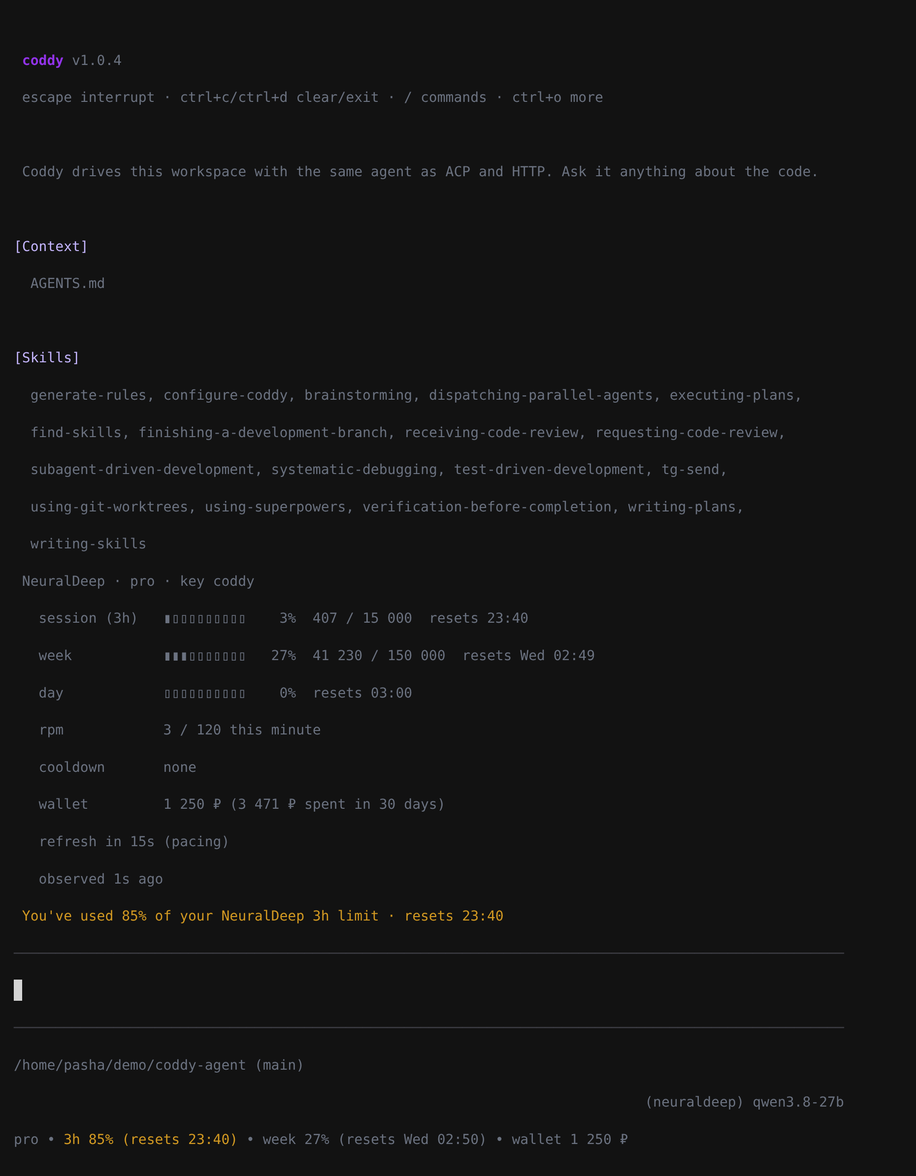
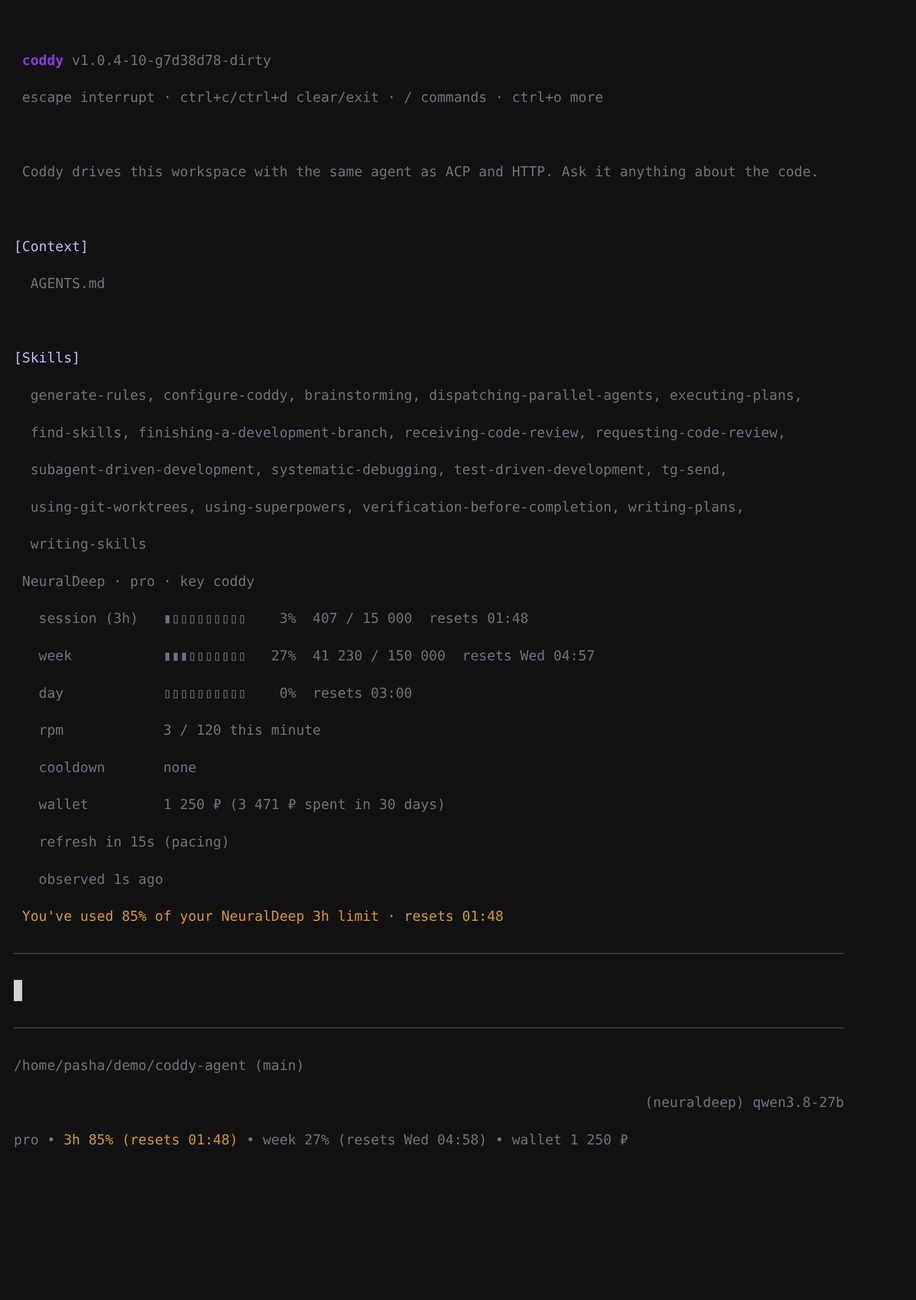
docs(usage): captures of the waiting turn, the resuming frame example, the cancel cause
The console capture script gains the fourth state (the status row while a
turn waits for the limit to lift) and the three earlier states are
re-captured from the same build; the ACP guide shows the resuming frame;
a wait cut by anything but the user names what cut it next to the limit.

diff --git a/docs/assets/cli-tui/11-usage-blocked.html b/docs/assets/cli-tui/11-usage-blocked.html
@@ -1,35 +1,35 @@
-<!DOCTYPE html><html><head><meta charset="utf-8"><style>body { margin:0; background:#121212; }pre { margin:0; padding:14px; font-family:'JetBrains Mono','DejaVu Sans Mono',monospace; font-size:14px; line-height:1.35; white-space:pre; }pre div { height:1.35em; } pre span { padding:0.18em 0; }</style></head><body><pre><div><span style="color:#c4b5fd;background:#121212;">[Context]</span><span style="color:#d4d4d4;background:#121212;">                                                                                           </span></div>
-<div><span style="color:#d4d4d4;background:#121212;">  </span><span style="color:#6b7280;background:#121212;">AGENTS.md</span><span style="color:#d4d4d4;background:#121212;">                                                                                         </span></div>
-<div><span style="color:#d4d4d4;background:#121212;">                                                                                                    </span></div>
-<div><span style="color:#c4b5fd;background:#121212;">[Skills]</span><span style="color:#d4d4d4;background:#121212;">                                                                                            </span></div>
-<div><span style="color:#d4d4d4;background:#121212;">  </span><span style="color:#6b7280;background:#121212;">generate-rules, configure-coddy, brainstorming, dispatching-parallel-agents, executing-plans,     </span></div>
-<div><span style="color:#d4d4d4;background:#121212;">  </span><span style="color:#6b7280;background:#121212;">find-skills, finishing-a-development-branch, receiving-code-review, requesting-code-review,       </span></div>
-<div><span style="color:#d4d4d4;background:#121212;">  </span><span style="color:#6b7280;background:#121212;">subagent-driven-development, systematic-debugging, test-driven-development, tg-send,              </span></div>
-<div><span style="color:#d4d4d4;background:#121212;">  </span><span style="color:#6b7280;background:#121212;">using-git-worktrees, using-superpowers, verification-before-completion, writing-plans,            </span></div>
+<!DOCTYPE html><html><head><meta charset="utf-8"><style>body { margin:0; background:#121212; }pre { margin:0; padding:14px; font-family:'JetBrains Mono','DejaVu Sans Mono',monospace; font-size:14px; line-height:1.35; white-space:pre; }pre div { height:1.35em; } pre span { padding:0.18em 0; }</style></head><body><pre><div><span style="color:#d4d4d4;background:#121212;">  </span><span style="color:#6b7280;background:#121212;">using-git-worktrees, using-superpowers, verification-before-completion, writing-plans,            </span></div>
 <div><span style="color:#d4d4d4;background:#121212;">  </span><span style="color:#6b7280;background:#121212;">writing-skills</span><span style="color:#d4d4d4;background:#121212;">                                                                                    </span></div>
 <div><span style="color:#d4d4d4;background:#121212;"> </span><span style="color:#6b7280;background:#121212;">NeuralDeep · pro · key coddy                                                                       </span></div>
-<div><span style="color:#d4d4d4;background:#121212;"> </span><span style="color:#6b7280;background:#121212;">  session (3h)   ▮▯▯▯▯▯▯▯▯▯    3%  407 / 15 000  resets 23:40                                      </span></div>
-<div><span style="color:#d4d4d4;background:#121212;"> </span><span style="color:#6b7280;background:#121212;">  week           ▮▮▮▯▯▯▯▯▯▯   27%  41 230 / 150 000  resets Wed 02:49                              </span></div>
+<div><span style="color:#d4d4d4;background:#121212;"> </span><span style="color:#6b7280;background:#121212;">  session (3h)   ▮▯▯▯▯▯▯▯▯▯    3%  407 / 15 000  resets 01:48                                      </span></div>
+<div><span style="color:#d4d4d4;background:#121212;"> </span><span style="color:#6b7280;background:#121212;">  week           ▮▮▮▯▯▯▯▯▯▯   27%  41 230 / 150 000  resets Wed 04:57                              </span></div>
 <div><span style="color:#d4d4d4;background:#121212;"> </span><span style="color:#6b7280;background:#121212;">  day            ▯▯▯▯▯▯▯▯▯▯    0%  resets 03:00                                                    </span></div>
 <div><span style="color:#d4d4d4;background:#121212;"> </span><span style="color:#6b7280;background:#121212;">  rpm            3 / 120 this minute                                                               </span></div>
 <div><span style="color:#d4d4d4;background:#121212;"> </span><span style="color:#6b7280;background:#121212;">  cooldown       none                                                                              </span></div>
 <div><span style="color:#d4d4d4;background:#121212;"> </span><span style="color:#6b7280;background:#121212;">  wallet         1 250 ₽ (3 471 ₽ spent in 30 days)                                                </span></div>
 <div><span style="color:#d4d4d4;background:#121212;"> </span><span style="color:#6b7280;background:#121212;">  refresh in 15s (pacing)                                                                          </span></div>
 <div><span style="color:#d4d4d4;background:#121212;"> </span><span style="color:#6b7280;background:#121212;">  observed 1s ago</span><span style="color:#d4d4d4;background:#121212;">                                                                                  </span></div>
-<div><span style="color:#d4d4d4;background:#121212;"> </span><span style="color:#d29922;background:#121212;">You've used 85% of your NeuralDeep 3h limit · resets 23:40</span><span style="color:#d4d4d4;background:#121212;">                                         </span></div>
-<div><span style="color:#d4d4d4;background:#121212;"> </span><span style="color:#f85149;background:#121212;">Usage limit reached: limit reached (resets 23:40)</span><span style="color:#d4d4d4;background:#121212;">                                                  </span></div>
-<div><span style="color:#d4d4d4;background:#121212;"> </span><span style="color:#6b7280;background:#121212;">NeuralDeep · pro · key coddy · limit reached (resets 23:40)                                        </span></div>
-<div><span style="color:#d4d4d4;background:#121212;"> </span><span style="color:#6b7280;background:#121212;">  session (3h)   ▮▮▮▮▮▮▮▮▮▮  100%  15 000 / 15 000  resets 23:40  exhausted                        </span></div>
-<div><span style="color:#d4d4d4;background:#121212;"> </span><span style="color:#6b7280;background:#121212;">  week           ▮▮▮▯▯▯▯▯▯▯   27%  41 230 / 150 000  resets Wed 02:50                              </span></div>
+<div><span style="color:#d4d4d4;background:#121212;"> </span><span style="color:#d29922;background:#121212;">You've used 85% of your NeuralDeep 3h limit · resets 01:48</span><span style="color:#d4d4d4;background:#121212;">                                         </span></div>
+<div><span style="color:#d4d4d4;background:#121212;">                                                                                                    </span></div>
+<div><span style="color:#d4d4d4;background:#2d2d2d;">                                                                                                    </span></div>
+<div><span style="color:#d4d4d4;background:#2d2d2d;"> </span><span style="color:#f4f4f5;background:#2d2d2d;">hi</span><span style="color:#d4d4d4;background:#2d2d2d;">                                                                                                 </span></div>
+<div><span style="color:#d4d4d4;background:#2d2d2d;">                                                                                                    </span></div>
+<div><span style="color:#d4d4d4;background:#121212;"> </span><span style="color:#d29922;background:#121212;">Interrupted by escape</span><span style="color:#d4d4d4;background:#121212;">                                                                              </span></div>
+<div><span style="color:#d4d4d4;background:#121212;"> </span><span style="color:#6b7280;background:#121212;">Operation aborted</span><span style="color:#d4d4d4;background:#121212;">                                                                                  </span></div>
+<div><span style="color:#d4d4d4;background:#121212;"> </span><span style="color:#f85149;background:#121212;">Usage limit reached (resets 01:48)</span><span style="color:#d4d4d4;background:#121212;">                                                                 </span></div>
+<div><span style="color:#d4d4d4;background:#121212;"> </span><span style="color:#6b7280;background:#121212;">NeuralDeep · pro · key coddy · limit reached (resets 01:48)                                        </span></div>
+<div><span style="color:#d4d4d4;background:#121212;"> </span><span style="color:#6b7280;background:#121212;">  session (3h)   ▮▮▮▮▮▮▮▮▮▮  100%  15 000 / 15 000  resets 01:48  exhausted                        </span></div>
+<div><span style="color:#d4d4d4;background:#121212;"> </span><span style="color:#6b7280;background:#121212;">  week           ▮▮▮▯▯▯▯▯▯▯   27%  41 230 / 150 000  resets Wed 04:58                              </span></div>
 <div><span style="color:#d4d4d4;background:#121212;"> </span><span style="color:#6b7280;background:#121212;">  day            ▯▯▯▯▯▯▯▯▯▯    0%  resets 03:00                                                    </span></div>
 <div><span style="color:#d4d4d4;background:#121212;"> </span><span style="color:#6b7280;background:#121212;">  rpm            3 / 120 this minute                                                               </span></div>
 <div><span style="color:#d4d4d4;background:#121212;"> </span><span style="color:#6b7280;background:#121212;">  cooldown       none                                                                              </span></div>
 <div><span style="color:#d4d4d4;background:#121212;"> </span><span style="color:#6b7280;background:#121212;">  wallet         1 250 ₽ (3 471 ₽ spent in 30 days)                                                </span></div>
-<div><span style="color:#d4d4d4;background:#121212;"> </span><span style="color:#6b7280;background:#121212;">  refresh in 11s (pacing)                                                                          </span></div>
-<div><span style="color:#d4d4d4;background:#121212;"> </span><span style="color:#6b7280;background:#121212;">  observed 4s ago</span><span style="color:#d4d4d4;background:#121212;">                                                                                  </span></div>
+<div><span style="color:#d4d4d4;background:#121212;"> </span><span style="color:#6b7280;background:#121212;">  refresh in 12s (pacing)                                                                          </span></div>
+<div><span style="color:#d4d4d4;background:#121212;"> </span><span style="color:#6b7280;background:#121212;">  observed 3s ago</span><span style="color:#d4d4d4;background:#121212;">                                                                                  </span></div>
+<div><span style="color:#d4d4d4;background:#121212;">                                                                                                    </span></div>
 <div><span style="color:#3f3f46;background:#121212;">────────────────────────────────────────────────────────────────────────────────────────────────────</span></div>
 <div><span style="color:#121212;background:#d4d4d4;"> </span><span style="color:#d4d4d4;background:#121212;">                                                                                                   </span></div>
 <div><span style="color:#3f3f46;background:#121212;">────────────────────────────────────────────────────────────────────────────────────────────────────</span></div>
 <div><span style="color:#6b7280;background:#121212;">/home/pasha/demo/coddy-agent (main)</span><span style="color:#d4d4d4;background:#121212;">                                                                 </span></div>
-<div><span style="color:#6b7280;background:#121212;">                                                                            (neuraldeep) qwen3.8-27b</span></div>
-<div><span style="color:#6b7280;background:#121212;">pro • </span><span style="color:#f85149;background:#121212;">limit reached (resets 23:40)</span><span style="color:#6b7280;background:#121212;"> • wallet 1 250 ₽</span><span style="color:#d4d4d4;background:#121212;">                                                 </span></div></pre></body></html>
+<div><span style="color:#6b7280;background:#121212;">10.7%/262.1k (auto)                                                         (neuraldeep) qwen3.8-27b</span></div>
+<div><span style="color:#6b7280;background:#121212;">pro • </span><span style="color:#f85149;background:#121212;">limit reached (resets 01:48)</span><span style="color:#6b7280;background:#121212;"> • wallet 1 250 ₽</span><span style="color:#d4d4d4;background:#121212;">                                                 </span></div></pre></body></html>

diff --git a/docs/assets/cli-tui/12-usage-resuming.html b/docs/assets/cli-tui/12-usage-resuming.html
@@ -1,6 +1,4 @@
-<!DOCTYPE html><html><head><meta charset="utf-8"><style>body { margin:0; background:#121212; }pre { margin:0; padding:14px; font-family:'JetBrains Mono','DejaVu Sans Mono',monospace; font-size:14px; line-height:1.35; white-space:pre; }pre div { height:1.35em; } pre span { padding:0.18em 0; }</style></head><body><pre><div><span style="color:#d4d4d4;background:#121212;">                                                                                                    </span></div>
-<div><span style="color:#d4d4d4;background:#121212;"> </span><span style="color:#9333ea;background:#121212;font-weight:bold;">coddy</span><span style="color:#6b7280;background:#121212;"> v1.0.4-10-g7d38d78-dirty</span><span style="color:#d4d4d4;background:#121212;">                                                                     </span></div>
-<div><span style="color:#d4d4d4;background:#121212;"> </span><span style="color:#6b7280;background:#121212;">escape interrupt · ctrl+c/ctrl+d clear/exit · / commands · ctrl+o more</span><span style="color:#d4d4d4;background:#121212;">                             </span></div>
+<!DOCTYPE html><html><head><meta charset="utf-8"><style>body { margin:0; background:#121212; }pre { margin:0; padding:14px; font-family:'JetBrains Mono','DejaVu Sans Mono',monospace; font-size:14px; line-height:1.35; white-space:pre; }pre div { height:1.35em; } pre span { padding:0.18em 0; }</style></head><body><pre><div><span style="color:#d4d4d4;background:#121212;"> </span><span style="color:#6b7280;background:#121212;">escape interrupt · ctrl+c/ctrl+d clear/exit · / commands · ctrl+o more</span><span style="color:#d4d4d4;background:#121212;">                             </span></div>
 <div><span style="color:#d4d4d4;background:#121212;">                                                                                                    </span></div>
 <div><span style="color:#d4d4d4;background:#121212;"> </span><span style="color:#6b7280;background:#121212;">Coddy drives this workspace with the same agent as ACP and HTTP. Ask it anything about the code.</span><span style="color:#d4d4d4;background:#121212;">   </span></div>
 <div><span style="color:#d4d4d4;background:#121212;">                                                                                                    </span></div>
@@ -23,13 +21,15 @@
 <div><span style="color:#d4d4d4;background:#121212;"> </span><span style="color:#6b7280;background:#121212;">  refresh in 15s (pacing)                                                                          </span></div>
 <div><span style="color:#d4d4d4;background:#121212;"> </span><span style="color:#6b7280;background:#121212;">  observed 1s ago</span><span style="color:#d4d4d4;background:#121212;">                                                                                  </span></div>
 <div><span style="color:#d4d4d4;background:#121212;"> </span><span style="color:#d29922;background:#121212;">You've used 85% of your NeuralDeep 3h limit · resets 01:48</span><span style="color:#d4d4d4;background:#121212;">                                         </span></div>
+<div><span style="color:#d4d4d4;background:#121212;">                                                                                                    </span></div>
+<div><span style="color:#d4d4d4;background:#2d2d2d;">                                                                                                    </span></div>
+<div><span style="color:#d4d4d4;background:#2d2d2d;"> </span><span style="color:#f4f4f5;background:#2d2d2d;">hi</span><span style="color:#d4d4d4;background:#2d2d2d;">                                                                                                 </span></div>
+<div><span style="color:#d4d4d4;background:#2d2d2d;">                                                                                                    </span></div>
+<div><span style="color:#d4d4d4;background:#121212;">                                                                                                    </span></div>
+<div><span style="color:#d4d4d4;background:#121212;"> </span><span style="color:#9333ea;background:#121212;">⠙</span><span style="color:#d4d4d4;background:#121212;"> </span><span style="color:#9ca3af;background:#121212;">Usage limit reached · resuming at 00:13</span><span style="color:#d4d4d4;background:#121212;">                                                          </span></div>
 <div><span style="color:#3f3f46;background:#121212;">────────────────────────────────────────────────────────────────────────────────────────────────────</span></div>
 <div><span style="color:#121212;background:#d4d4d4;"> </span><span style="color:#d4d4d4;background:#121212;">                                                                                                   </span></div>
 <div><span style="color:#3f3f46;background:#121212;">────────────────────────────────────────────────────────────────────────────────────────────────────</span></div>
 <div><span style="color:#6b7280;background:#121212;">/home/pasha/demo/coddy-agent (main)</span><span style="color:#d4d4d4;background:#121212;">                                                                 </span></div>
-<div><span style="color:#6b7280;background:#121212;">                                                                            (neuraldeep) qwen3.8-27b</span></div>
-<div><span style="color:#6b7280;background:#121212;">pro • </span><span style="color:#d29922;background:#121212;">3h 85% (resets 01:48)</span><span style="color:#6b7280;background:#121212;"> • week 27% (resets Wed 04:58) • wallet 1 250 ₽</span><span style="color:#d4d4d4;background:#121212;">                          </span></div>
-<div><span style="color:#d4d4d4;background:#121212;">                                                                                                    </span></div>
-<div><span style="color:#d4d4d4;background:#121212;">                                                                                                    </span></div>
-<div><span style="color:#d4d4d4;background:#121212;">                                                                                                    </span></div>
-<div><span style="color:#d4d4d4;background:#121212;">                                                                                                    </span></div></pre></body></html>
+<div><span style="color:#6b7280;background:#121212;">10.7%/262.1k (auto)                                                         (neuraldeep) qwen3.8-27b</span></div>
+<div><span style="color:#6b7280;background:#121212;">pro • </span><span style="color:#d29922;background:#121212;">3h 85% (resets 01:48)</span><span style="color:#6b7280;background:#121212;"> • week 27% (resets Wed 04:58) • wallet 1 250 ₽</span><span style="color:#d4d4d4;background:#121212;">                          </span></div></pre></body></html>

diff --git a/docs/assets/cli-tui/09-usage-footer.html b/docs/assets/cli-tui/09-usage-footer.html
@@ -1,5 +1,5 @@
 <!DOCTYPE html><html><head><meta charset="utf-8"><style>body { margin:0; background:#121212; }pre { margin:0; padding:14px; font-family:'JetBrains Mono','DejaVu Sans Mono',monospace; font-size:14px; line-height:1.35; white-space:pre; }pre div { height:1.35em; } pre span { padding:0.18em 0; }</style></head><body><pre><div><span style="color:#d4d4d4;background:#121212;">                                                                                                    </span></div>
-<div><span style="color:#d4d4d4;background:#121212;"> </span><span style="color:#9333ea;background:#121212;font-weight:bold;">coddy</span><span style="color:#6b7280;background:#121212;"> v1.0.4</span><span style="color:#d4d4d4;background:#121212;">                                                                                       </span></div>
+<div><span style="color:#d4d4d4;background:#121212;"> </span><span style="color:#9333ea;background:#121212;font-weight:bold;">coddy</span><span style="color:#6b7280;background:#121212;"> v1.0.4-10-g7d38d78-dirty</span><span style="color:#d4d4d4;background:#121212;">                                                                     </span></div>
 <div><span style="color:#d4d4d4;background:#121212;"> </span><span style="color:#6b7280;background:#121212;">escape interrupt · ctrl+c/ctrl+d clear/exit · / commands · ctrl+o more</span><span style="color:#d4d4d4;background:#121212;">                             </span></div>
 <div><span style="color:#d4d4d4;background:#121212;">                                                                                                    </span></div>
 <div><span style="color:#d4d4d4;background:#121212;"> </span><span style="color:#6b7280;background:#121212;">Coddy drives this workspace with the same agent as ACP and HTTP. Ask it anything about the code.</span><span style="color:#d4d4d4;background:#121212;">   </span></div>
@@ -18,7 +18,7 @@
 <div><span style="color:#3f3f46;background:#121212;">────────────────────────────────────────────────────────────────────────────────────────────────────</span></div>
 <div><span style="color:#6b7280;background:#121212;">/home/pasha/demo/coddy-agent (main)</span><span style="color:#d4d4d4;background:#121212;">                                                                 </span></div>
 <div><span style="color:#6b7280;background:#121212;">                                                                            (neuraldeep) qwen3.8-27b</span></div>
-<div><span style="color:#6b7280;background:#121212;">pro • 3h 3% (resets 23:40) • week 27% (resets Wed 02:49) • wallet 1 250 ₽</span><span style="color:#d4d4d4;background:#121212;">                           </span></div>
+<div><span style="color:#6b7280;background:#121212;">pro • 3h 3% (resets 01:48) • week 27% (resets Wed 04:57) • wallet 1 250 ₽</span><span style="color:#d4d4d4;background:#121212;">                           </span></div>
 <div><span style="color:#d4d4d4;background:#121212;">                                                                                                    </span></div>
 <div><span style="color:#d4d4d4;background:#121212;">                                                                                                    </span></div>
 <div><span style="color:#d4d4d4;background:#121212;">                                                                                                    </span></div>

diff --git a/examples/cli/capture_usage.py b/examples/cli/capture_usage.py
@@ -1,11 +1,13 @@
 #!/usr/bin/env python3
 """Capture the console status bar with NeuralDeep account usage.
 
-Stands a local GET /limits (a fake hub with a pro wallet key), points the
+Stands a local GET /limits (a fake hub with a pro wallet key) plus a chat
+completion that answers one 429 naming a reset far ahead, points the
 neuraldeep provider at it through CODDY_NEURALDEEP_BASE_URL, starts
-build/coddy cli in a pty and dumps three states through capture.py's
+build/coddy cli in a pty and dumps four states through capture.py's
 renderer (text, styled HTML, PNG): the footer line, the 80 % warning with
-its notice and /usage, and a hit limit. No real key and no model call.
+its notice and /usage, the status row of a turn waiting for the limit to
+lift (agent.wait_for_limit_reset), and a hit limit. No real key.
 
 Usage: python3 capture_usage.py [repo] [outdir]   (default docs/assets/cli-tui)
 Needs a cli-tagged build/coddy (make build TAGS=cli), pexpect, pyte and
@@ -23,7 +25,7 @@ import pexpect, pyte  # noqa: E402
 import capture  # noqa: E402
 from cli_tui_driver import COLS, ROWS, CR  # noqa: E402
 
-STATE = {"used": 407, "blocked": False}
+STATE = {"used": 407, "blocked": False, "limit": 0}
 
 def payload():
     used = STATE["used"]
@@ -54,6 +56,18 @@ class H(BaseHTTPRequestHandler):
         body = json.dumps(payload()).encode()
         self.send_response(200); self.send_header("Content-Type", "application/json")
         self.send_header("Content-Length", str(len(body))); self.end_headers(); self.wfile.write(body)
+    def do_POST(self):
+        # The only model call the capture makes: a 429 whose Retry-After is
+        # far beyond the retry budget, so the turn waits for the reset.
+        if self.path != "/chat/completions" or STATE["limit"] <= 0:
+            self.send_response(404); self.end_headers(); return
+        self.rfile.read(int(self.headers.get("Content-Length") or 0))
+        pause, STATE["limit"] = STATE["limit"], 0
+        body = json.dumps({"error": {"message": "Rate limit exceeded for api_key: coddy. Limit type: session.",
+                                     "type": "rate_limit_error", "code": "429"}}).encode()
+        self.send_response(429); self.send_header("Content-Type", "application/json")
+        self.send_header("Retry-After", str(pause)); self.send_header("Content-Length", str(len(body)))
+        self.end_headers(); self.wfile.write(body)
     def log_message(self, *a):
         pass
 
@@ -76,6 +90,7 @@ models:
     max_context_tokens: 262144
 agent:
   model: neuraldeep/qwen3.8-27b
+  wait_for_limit_reset: true
 """)
 
 class Shot:
@@ -158,6 +173,17 @@ tui.pump(0.5)
 capture.snapshot(tui, OUT, "10-usage-warning")
 print("warning captured")
 
+# A turn that hits a limit the retries could never cover: the status row
+# counts down to the reset while the footer keeps the hub's numbers.
+STATE["limit"] = 120
+tui.send("hi" + CR)
+tui.wait_for("resuming at", timeout=25)
+tui.pump(0.5)
+capture.snapshot(tui, OUT, "12-usage-resuming")
+print("resuming captured")
+tui.send("\x1b")  # Esc stops the waiting turn like any other
+tui.pump(1)
+
 # A hit limit.
 STATE["blocked"] = True
 time.sleep(16)
@@ -168,7 +194,7 @@ capture.snapshot(tui, OUT, "11-usage-blocked")
 print("blocked captured")
 tui.send("\x03"); time.sleep(0.2); tui.send("\x03")
 tui.pump(1)
-names = ["09-usage-footer", "10-usage-warning", "11-usage-blocked"]
+names = ["09-usage-footer", "10-usage-warning", "12-usage-resuming", "11-usage-blocked"]
 for name in names:
     # The frame's empty tail rows would otherwise end the file with blank lines.
     txt = OUT / f"{name}.txt"

diff --git a/internal/agent/react.go b/internal/agent/react.go
@@ -562,7 +562,9 @@ func (a *Agent) runReActLoop(
 					if a.state.IsUserCancelledTurn() {
 						return string(acp.StopReasonCancelled), nil
 					}
-					return string(acp.StopReasonRefused), fmt.Errorf("LLM error: %w", reset)
+					// A shutdown or a deadline, not the user: the turn ends with
+					// the limit it was waiting on and says what cut the wait.
+					return string(acp.StopReasonRefused), fmt.Errorf("LLM error: %w (the wait for the reset was interrupted: %v)", reset, err)
 				}
 				turn--
 				continue

diff --git a/README.md b/README.md
@@ -205,7 +205,7 @@ Use **`Makefile`** variable **`TAGS`** with **spaces** (**`make build TAGS="http
 | **`http`** | **`coddy http`**, REST gateway, **`/docs`**, **`/openapi.yaml`** | [`docs/http-api.md`](docs/http-api.md) |
 | **`ui`** | Embedded SPA on **`/`** (needs **`http`**) | [`docs/ui.md`](docs/ui.md), [`DESIGN.md`](DESIGN.md) |
 | **`scheduler`** | Scheduler daemon and **`coddy_scheduler_*`** tools; with **`http`**, **`/coddy/scheduler`** REST | [`docs/scheduler.md`](docs/scheduler.md), [`external/scheduler/README.md`](external/scheduler/README.md) |
-| **`cli`** | Interactive console TUI — bare **`coddy`** on a terminal (or **`coddy cli`**): chat with streaming, tool boxes, permission modals, **`!!<command>`** to run a shell command locally that the agent never sees, a status bar with the NeuralDeep account usage (session and week windows, reset times, wallet) and **`/usage`** for the full breakdown; **`coddy -c`** continues the latest session, **`coddy -p "..."`** runs one prompt non-interactively, **`--remote <name|host:port|url>`** (+ `--remote-token` / `CODDY_REMOTE_TOKEN`) drives a remote `coddy http` server — the same flags work on `coddy acp`. Visual design inspired by the [pi coding agent](https://github.com/badlogic/pi-mono) TUI (MIT, Mario Zechner) | [`docs/cli.md`](docs/cli.md) |
+| **`cli`** | Interactive console TUI — bare **`coddy`** on a terminal (or **`coddy cli`**): chat with streaming, tool boxes, permission modals, **`!!<command>`** to run a shell command locally that the agent never sees, a status bar with the NeuralDeep account usage (session and week windows, reset times, wallet), **`/usage`** for the full breakdown, and with **`agent.wait_for_limit_reset`** a turn that hits a limit waits it out and resumes by itself; **`coddy -c`** continues the latest session, **`coddy -p "..."`** runs one prompt non-interactively, **`--remote <name|host:port|url>`** (+ `--remote-token` / `CODDY_REMOTE_TOKEN`) drives a remote `coddy http` server — the same flags work on `coddy acp`. Visual design inspired by the [pi coding agent](https://github.com/badlogic/pi-mono) TUI (MIT, Mario Zechner) | [`docs/cli.md`](docs/cli.md) |
 | **`gateway.telegram`** | Telegram bot adapter — **`coddy gateway`** subcommand, per-user sessions, access control | [`docs/gateway.md`](docs/gateway.md) |
 | **`gateway`** | All messenger adapters (superset of `gateway.telegram`; add Discord/Slack without changing the core) | [`docs/gateway.md`](docs/gateway.md) |
 

diff --git a/AGENTS.md b/AGENTS.md
@@ -7,7 +7,7 @@ Short map for automation-friendly contributors.
 | Area | Responsibility |
 |------|------------------|
 | `cmd/coddy` | CLI entry (bare `coddy` console, `cli`, `acp`, `http`, `gateway`, `sessions`, `skills`, `plugin`, `mcp`, `codex login`, `rules list`, `update`). |
-| `internal/agent` | ReAct orchestration, MCP/tool wiring. |
+| `internal/agent` | ReAct orchestration, MCP/tool wiring, and the opt-in wait for a hit usage limit (**`limit_wait.go`**: a **`llm.QuotaResetError`** from the resilient wrapper makes a top-level turn wait for the reset under **`agent.wait_for_limit_reset`**, sending **`provider_usage`** updates with **`resuming`** every 20 s, then re-issue the same call). |
 | `internal/mcp` | MCP transports, merged server list, and the **workspace trust gate** for project-local **`.coddy/mcp.json`** (**`trust.go`**, **`gate.go`**; policy **`mcp.project_trust`**, approvals in **`<home>/mcp-trust.json`**). Guide: **`docs/mcp-integration.md`**. |
 | `internal/remote` | Go client for a remote `coddy http` server: SSE frames back into ACP updates, `/coddy` REST, permission/question answers. Powers `--remote` on the console and `coddy acp`. Guide: **`docs/cli.md`** (Remote mode), **`docs/remote-control.md`**. |
 | `internal/bgtask` | Background task pool for detached shell commands (**`run_command`** **`background: true`** plus the **`background_*`** tools, the Tasks drawer, and **`/coddy/sessions/{id}/background-tasks`**) and for subagent runs started by **`spawn_agent`** (**`Pool.Launch`**, kind **`agent`**, **`Agent {name, session_id}`** on the row). **`Pool.Adopt`** takes over a foreground command that outlived its timeout instead of killing it. Guide: **`docs/background-tasks.md`**. |

diff --git a/docs/cli.md b/docs/cli.md
@@ -356,10 +356,12 @@ terminal emulator.
 `examples/cli/capture.py`, which drives the shared e2e driver and renders each
 state from the pyte buffer as `.txt`, styled `.html`, and `.png`. Those are
 regression references for colors and cell layout, not marketing images;
-regenerate them when the transcript chrome changes. The three usage states
-(`09-usage-footer`, `10-usage-warning`, `11-usage-blocked`) come from
-`examples/cli/capture_usage.py`, which stands a fake hub `GET /limits` behind
-`CODDY_NEURALDEEP_BASE_URL` so no real key and no model call is needed.
+regenerate them when the transcript chrome changes. The four usage states
+(`09-usage-footer`, `10-usage-warning`, `12-usage-resuming`,
+`11-usage-blocked`) come from `examples/cli/capture_usage.py`, which stands
+a fake hub `GET /limits` behind `CODDY_NEURALDEEP_BASE_URL`, plus one chat
+completion that answers a `429` naming a reset far ahead for the waiting
+turn, so no real key is needed.
 
 `docs/assets/pi-tui-reference/` holds captures of the pi original for
 comparison, as described under **Visual model**.

diff --git a/docs/plans/neuraldeep-usage.md b/docs/plans/neuraldeep-usage.md
@@ -699,9 +699,11 @@ Layered order, each layer red → green → `make test` → docs → `make lint`
    the PR.
 3. **SPA** (second PR): pill, banner, i18n, vitest, DESIGN.md, docs/ui.md,
    screenshots.
-4. **Auto-resume** (third PR): config, agent-loop wait, status line and
-   banner wording, config schema sync, spec scenario "A turn waits for the
-   session window to reset".
+4. **Auto-resume** (third PR, branch `claude/coddy-usage-auto-resume` on
+   top of #143): config, agent-loop wait, status line and banner wording,
+   config schema sync, spec scenarios in `features/llm_limit_wait.feature`
+   (the turn waits and answers, off by default, a pause beyond the maximum)
+   and the threshold scenario in `features/llm_retry_after.feature`.
 
 `[rev]` Steps 1 and 2 ship in one PR as two commits: the plumbing alone has
 no visible surface, and the status bar is what the issue asks for (cursor 12,

diff --git a/docs/acp-protocol.md b/docs/acp-protocol.md
@@ -505,7 +505,10 @@ define; a client that ignores unknown kinds keeps working.
   `agent.wait_for_limit_reset` on, a turn that hits a limit the retries
   could never cover sends the same update itself every 20 s while it waits,
   with `blocked`, `retryAt`, `retryInSec` and `resuming: true`; it then
-  re-issues the call, and the next turn-end snapshot replaces the update.
+  re-issues the call, and the next turn-end snapshot replaces the update:
+  `{"sessionUpdate": "provider_usage", "provider": "neuraldeep",
+  "providerType": "neuraldeep", "blocked": true, "retryAt":
+  "2026-09-06T20:59:59Z", "retryInSec": 767, "resuming": true}`.
 
 ```json
 {
